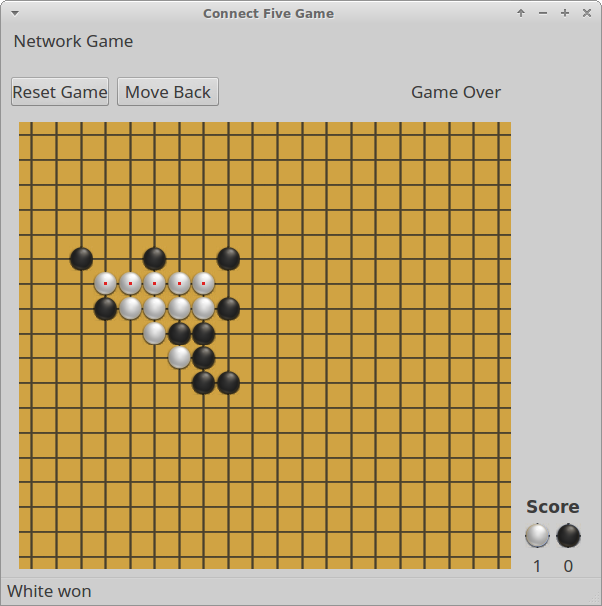
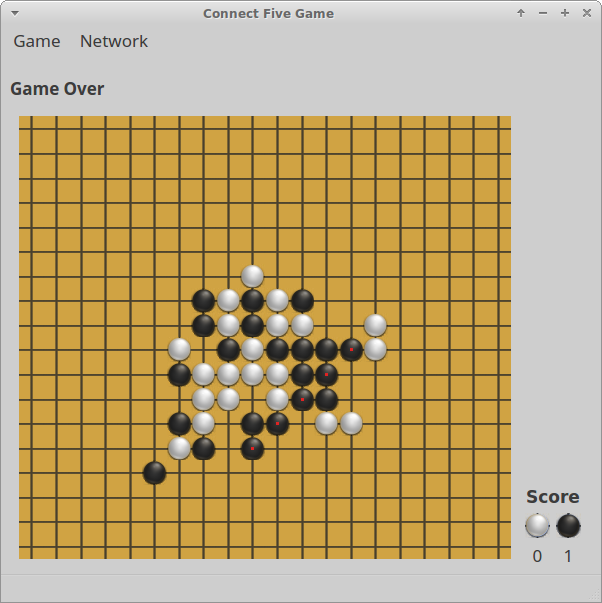
design changes

Changed region(s): [[0.0, 0.1194, 0.9867, 0.9851], [0.0, 0.0597, 0.2392, 0.0896]]

diff --git a/mainwindow.cpp b/mainwindow.cpp
@@ -10,16 +10,18 @@ MainWindow::MainWindow(char *argv[], int argc, QWidget *parent) : QMainWindow (p
 	this->cross=new QPixmap (":/images/black.png");
 	this->empty=new QPixmap (":/images/empty.png");
 
-	this->setMinimumSize(26*MAX_X+80,26*MAX_Y+100);
+	this->setMinimumSize(26*MAX_X+80,26*MAX_Y+110);
 	this->array=new Board (argv, argc, empty, circle, cross, this);
 	this->ui->gridLayout->addWidget(array,2,0);
 	this->ui->gridLayout->setRowMinimumHeight (2, 26*MAX_Y);
 	this->ui->gridLayout->setColumnMinimumWidth(0, 26*MAX_X);
 	this->ui->label_turn->setFixedHeight(25);
+	this->ui->label_turn->setFixedWidth(25);
 	this->ui->label_color->setFixedHeight(25);
+	this->ui->label_color->setFixedWidth(25);
 	this->ui->label_turn->setScaledContents(1);
 	this->ui->label_color->setScaledContents(1);
-	this->ui->pushButton->setMaximumWidth(100);
+	//this->ui->pushButton->setMaximumWidth(100);
 
 	this->ui->label_score->setAlignment(Qt::AlignCenter);
 	this->ui->label_score_black->setAlignment(Qt::AlignCenter);
@@ -37,14 +39,13 @@ MainWindow::MainWindow(char *argv[], int argc, QWidget *parent) : QMainWindow (p
 		this->setWindowTitle("Connect Five Game");
 	}
 
-	connect (array, SIGNAL (statusChanged (int)), this, SLOT (displayStatus (const int&)));
-	connect (ui->pushButton, SIGNAL (clicked ()), array, SLOT (reset ()));
-	connect (array, SIGNAL (NewGamePressed (int)), this, SLOT (buttonPressHandle (int)));
-	connect (ui->pushButton_moveBack, SIGNAL (clicked ()), array, SLOT (moveBackClicked (void)));
+	connect (this->array, SIGNAL (statusChanged (int)), this, SLOT (displayStatus (const int&)));
+	connect (this->array, SIGNAL (NewGamePressed (int)), this, SLOT (buttonPressHandle (int)));
 
-
-	connect (ui->actionNew_Network_Game, SIGNAL (triggered ()), this, SLOT (startNetworkGame()));
-	connect (ui->actionConnect_to_Game, SIGNAL (triggered ()), this, SLOT (ConnectToGame ()));
+	connect (this->ui->actionMove_Back_2, SIGNAL (triggered ()), this->array, SLOT (moveBackClicked (void)));
+	connect (this->ui->actionReset_Game, SIGNAL (triggered ()), this->array, SLOT (reset ()));
+	connect (this->ui->actionNew_Network_Game, SIGNAL (triggered ()), this, SLOT (startNetworkGame()));
+	connect (this->ui->actionConnect_to_Game, SIGNAL (triggered ()), this, SLOT (ConnectToGame ()));
 
 	if (this->array->server){
 		this->setStatusBar (2);
@@ -54,14 +55,6 @@ MainWindow::MainWindow(char *argv[], int argc, QWidget *parent) : QMainWindow (p
 		this->displayStatus(this->array->activeType);
 	}
 
-	//zobrazeni, kdo ma jakou barvu
-	if (this->array->gameType==Board::TYPE_SERVER){
-		this->ui->label_3->setText ("You are ");
-		this->ui->label_color->setPixmap (*circle);
-	}else if (this->array->gameType==Board::TYPE_CLIENT){
-		this->ui->label_color->setPixmap (*cross);
-		this->ui->label_3->setText ("You are ");
-	}
 }
 
 void MainWindow::startNetworkGame(){
@@ -109,6 +102,9 @@ void MainWindow::startNetworkGame(){
 	connect (this->array->server, SIGNAL (connectionStatus (int)), this, SLOT (setStatusBar (int)));//potrebuju ukazat na statusbaru ze se nekdo pripojil/odpojil atd
 	connect (this->array->server, SIGNAL (buttonPressed (int)), this, SLOT (buttonPressHandle (int)));
 	connect (this->array->server, SIGNAL (statusChanged (int)), this, SLOT (displayStatus (int)));
+
+	this->ui->label_3->setText ("You are ");
+	this->ui->label_color->setPixmap (*circle);
 
 }
 
@@ -162,6 +158,9 @@ void MainWindow::ConnectToGame(){
 		connect (this->array->client, SIGNAL (connectionStatus (int)), this, SLOT (setStatusBar (int)));//potrebuju ukazat na statusbaru ze se nekdo pripojil/odpojil atd
 		connect (this->array->client, SIGNAL (buttonPressed (int)), this, SLOT (buttonPressHandle (int)));
 		connect (this->array->client, SIGNAL (statusChanged (int)), this, SLOT (displayStatus (int)));
+
+		this->ui->label_color->setPixmap (*cross);
+		this->ui->label_3->setText ("You are ");
 	}
 }
 
@@ -182,7 +181,7 @@ void MainWindow::setStatusBar (const int &x)
 		}else{
 			this->ui->label_turn->setPixmap (*cross);
 		}
-		this->ui->label_2->setText (" plays");
+		this->ui->label_2->setText ("Plays ");
 
 		break;
 	case 2:
@@ -222,11 +221,11 @@ void MainWindow::displayStatus (const int &event)
 	switch (event){
 	case 1:
 		this->ui->label_turn->setPixmap (*circle);
-		this->ui->label_2->setText (" plays");
+		this->ui->label_2->setText ("Plays ");
 		break;
 	case 2:
 		this->ui->label_turn->setPixmap (*cross);
-		this->ui->label_2->setText (" plays");
+		this->ui->label_2->setText ("Plays ");
 		break;
 	case 7:
 		this->ui->statusBar->showMessage ("");
@@ -245,17 +244,22 @@ void MainWindow::displayStatus (const int &event)
 		break;
 	default:
 		//ui->label->setPixmap(empty);
-		this->ui->label_turn->setText ("Game Over");
+		//this->ui->label_turn->setText ("Game Over");
+		this->ui->label_turn->clear();
 		this->ui->label_2->clear ();
-		//ui->label_3->clear();
+		this->ui->label_6->setText ("Game Over");
+		this->ui->label_3->clear();
 		this->setStatusBar (event);
 	}
 }
 
 void MainWindow::buttonPressHandle (const int &x)
 {
-	this->ui->pushButton->setEnabled ((bool)x);
-	this->ui->pushButton_moveBack->setEnabled ((bool)x);
+	//this->ui->pushButton->setEnabled ((bool)x);
+	//this->ui->pushButton_moveBack->setEnabled ((bool)x);
+
+	this->ui->actionMove_Back_2->setEnabled ((bool)x);
+	this->ui->actionReset_Game->setEnabled ((bool)x);
 }
 
 MainWindow::~MainWindow ()

diff --git a/client.cpp b/client.cpp
@@ -144,7 +144,7 @@ bool Client::readFromServer ()
 
 bool Client::writeToServer (QString output)
 {
-	if(!this->socket->isValid() || !this->socket || !this->socket->isOpen()){//kontrola otevrenosti a validity socketu
+	if(this->socket != NULL && !this->socket->isValid() || !this->socket || !this->socket->isOpen()){//kontrola otevrenosti a validity socketu
 		return false;
 	}
 	this->socket->write (output.toAscii());

diff --git a/server.cpp b/server.cpp
@@ -150,7 +150,7 @@ bool Server::readFromClient () //cte z daneho sitoveho socketu
 
 bool Server::writeToClient (const QString &output)
 {
-	if(!this->socket->isValid() || !this->socket || !this->socket->isOpen()){//kontrola otevrenosti a validity socketu
+	if(this->socket != NULL && !this->socket->isValid() || !this->socket || !this->socket->isOpen()){//kontrola otevrenosti a validity socketu
 		return false;
 	}
 
